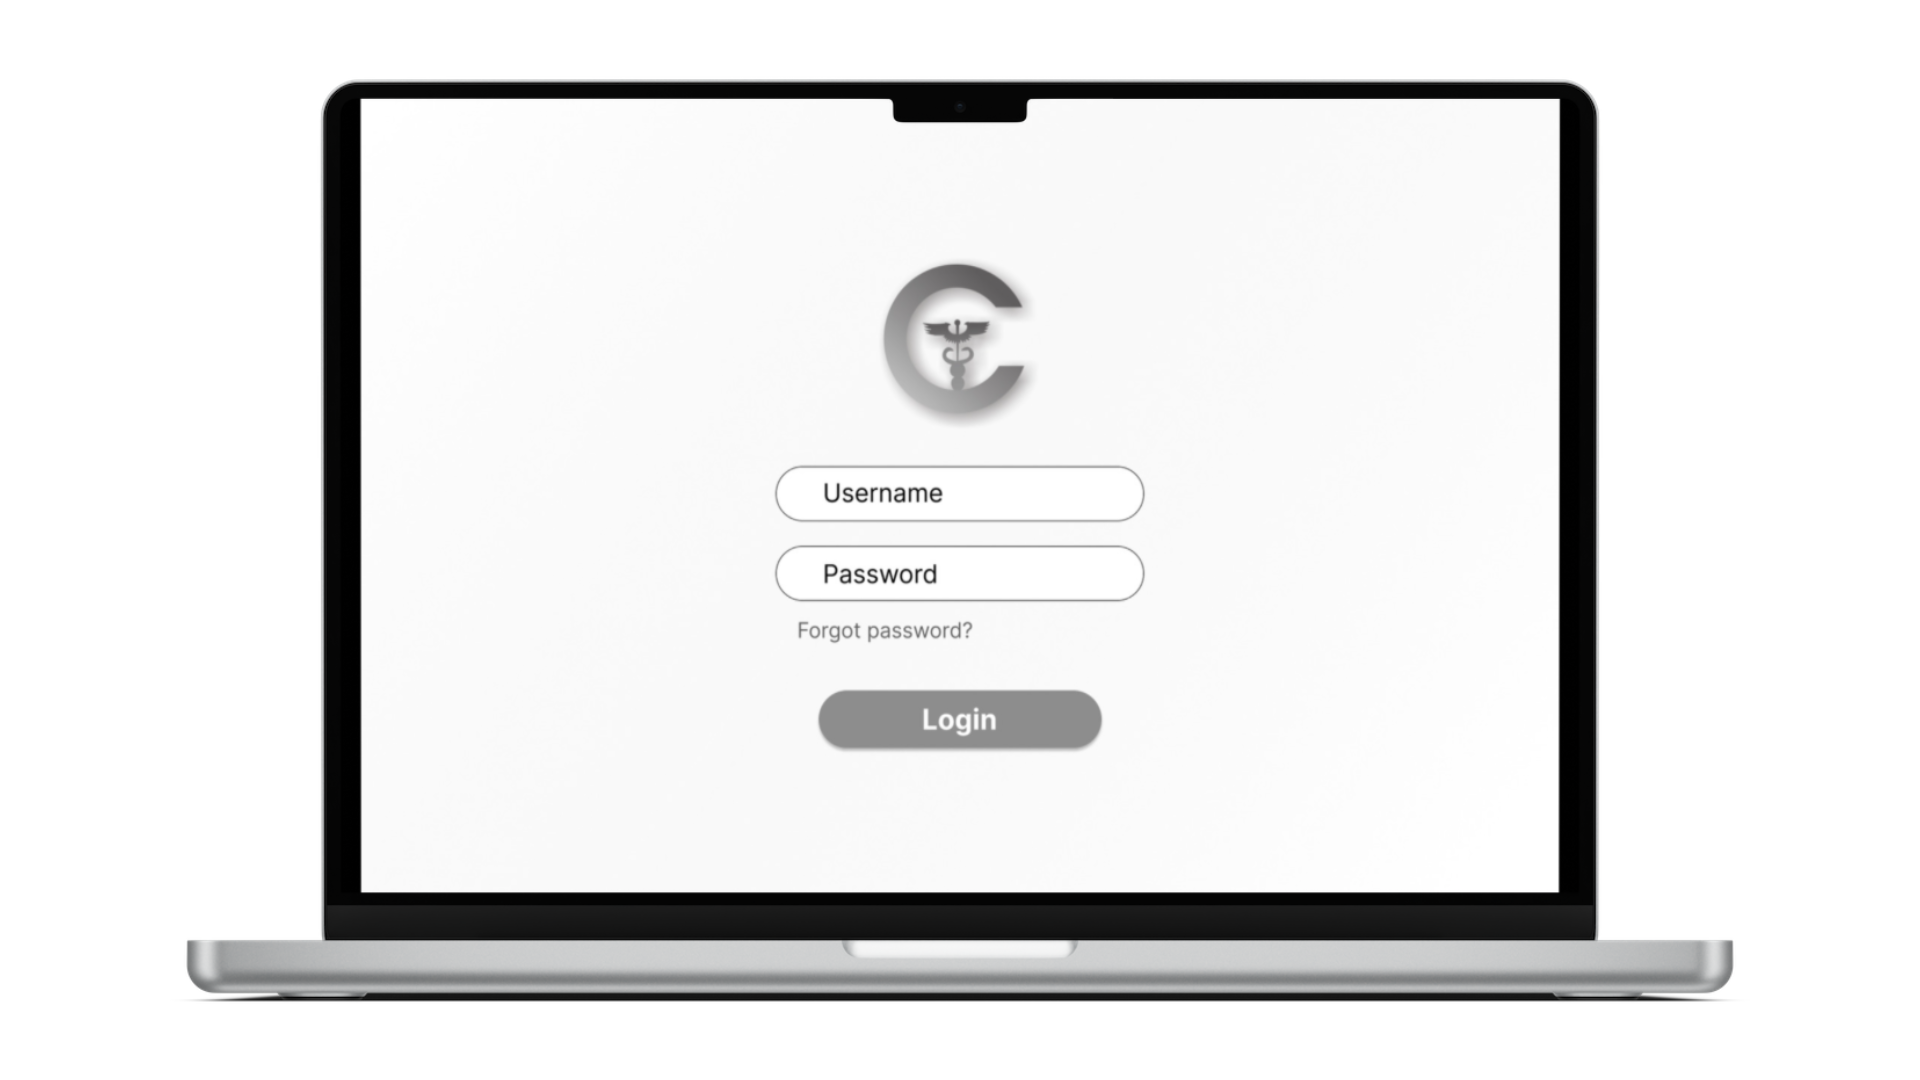
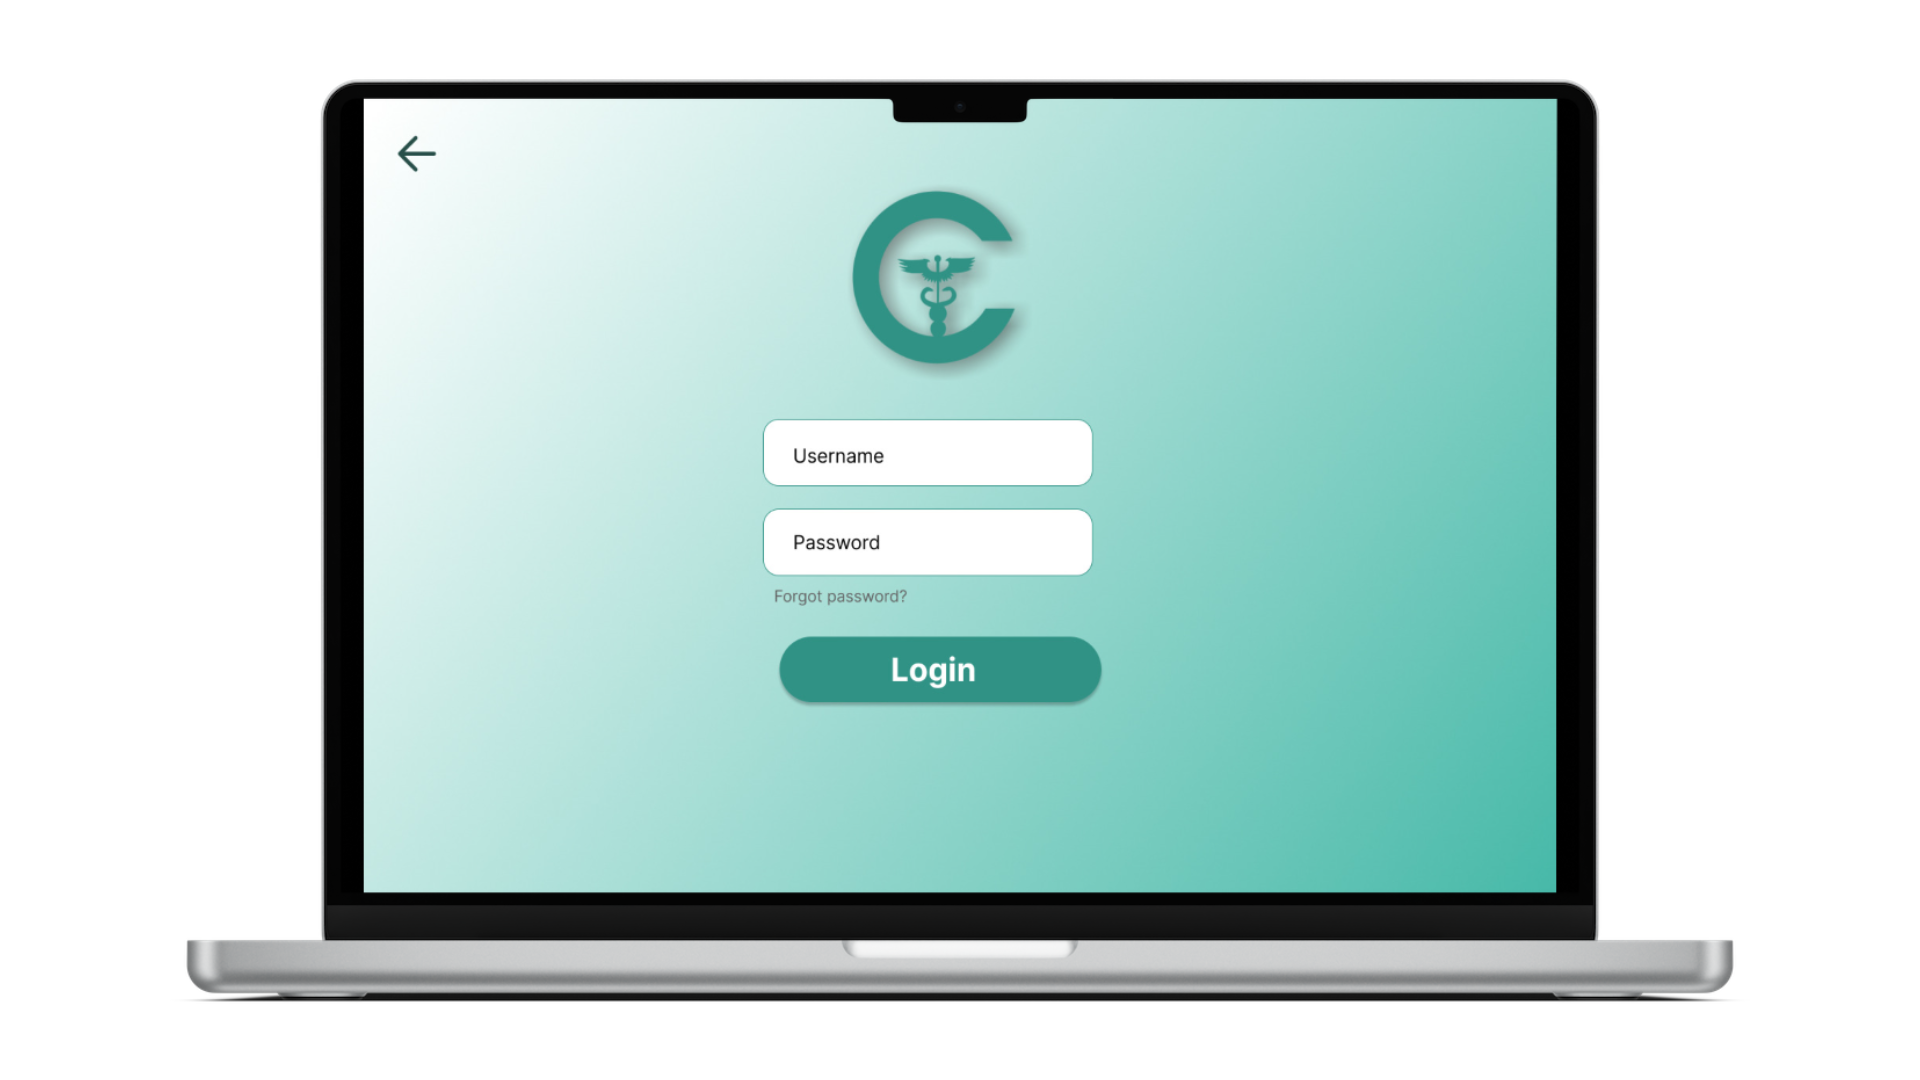
update baru

diff --git a/resources/sass/app.scss b/resources/sass/app.scss
@@ -13,11 +13,16 @@
 .button-container {
     display: flex;
     flex-wrap: wrap;
-    gap: 10px; /* Jarak antara tombol */
+    gap: 10px;
+    /* Jarak antara tombol */
 }
 
 .button-container form {
-    margin: 0; /* Menghapus margin default pada form */
+    margin: 0;
+    /* Menghapus margin default pada form */
 }
 
 
+#wlcm {
+    background-color: #45B8A7;
+}

diff --git a/resources/views/layoutsadmin/nav.blade.php b/resources/views/layoutsadmin/nav.blade.php
@@ -3,17 +3,18 @@
 @endphp
 
 
-<nav class="navbar navbar-expand-md navbar-dark" style="background-color: #767676">
+<nav class="navbar navbar-expand-md navbar-dark" style="background-color: #8BD2C8">
 
     <div class="container">
-        <a href=" {{ route('listobat') }} " class="navbar-brand mb-0 h1"> <img src="{{ Vite::asset('resources/images/logonobg.png') }}" width="75" height="40"></a>
+        <a href=" {{ route('listobat') }} " class="navbar-brand mb-0 h1"> <img
+                src="{{ Vite::asset('resources/images/logonobg.png') }}" width="75" height="40"></a>
 
         <button type="button" class="navbar-toggler" data-bs-toggle="collapse" data-bs-target="#navbarSupportedContent">
             <span class="navbar-toggler-icon"></span>
         </button>
 
         <div class="collapse navbar-collapse" id="navbarSupportedContent">
-            <hr class="d-md-none text-white-50">
+            <hr class="d-md-none text-dark">
 
             <ul class="navbar-nav flex-row flex-wrap">
                 <li class="nav-item col-2 col-md-auto"><a href="{{ route('listobat') }}"
@@ -28,7 +29,7 @@
                         class="nav-link @if ($currentRouteName == 'resi.index') active @endif">Resi Pemasok</a></li>
             </ul>
 
-            <hr class="d-md-none text-white-50">
+            <hr class="d-md-none text-dark">
 
             <li class="nav-item dropdown btn btn-outline-light my-2 ms-md-auto">
                 <a id="navbarDropdown" class="nav-link dropdown-toggle" href="#" role="button"

diff --git a/resources/views/welcome.blade.php b/resources/views/welcome.blade.php
@@ -14,7 +14,7 @@
     <nav class="navbar bg-body-tertiary">
         <div class="container">
             <a class="navbar-brand" href="#">
-                <img href="#" class="fw-bold"><img src="{{ Vite::asset('resources/images/logo.png') }}"
+                <img href="#" class="fw-bold"><img src="{{ Vite::asset('resources/images/logonobg.png') }}"
                     alt="image" width=100px>
             </a>
             <a class="nav-link active fs-3 fw-bold" aria-current="page" href="{{ route('login') }}"><i
@@ -36,7 +36,7 @@
             </div>
         </div>
     </section>
-    <section class="p-5 "style="background-color: black">
+    <section class="p-5" id="wlcm">
         <div class="container text-center">
             <div class="row text-center g-4">
                 <div class="col-md">

diff --git a/resources/views/admin/laporanmasuk/index.blade.php b/resources/views/admin/laporanmasuk/index.blade.php
@@ -19,9 +19,9 @@
                         </a> --}}
                     </li>
                     <li class="list-inline-item">
-                        {{-- <a href="{{ route('laporanmasuk.export_excel') }}" class="btn btn-outline-danger">
+                        <a href="{{ route('laporanmasuk.export_excel') }}" class="btn btn-outline-danger">
                             <i class="bi bi-download me-1"></i> to Excel
-                        </a> --}}
+                        </a>
                     </li>
                     <li class="list-inline-item">
                         {{-- <a href="{{ route('admin.create') }}" class="btn btn-primary">

diff --git a/resources/views/admin/laporankeluar/index.blade.php b/resources/views/admin/laporankeluar/index.blade.php
@@ -14,9 +14,9 @@
                         </a> --}}
                     </li>
                     <li class="list-inline-item">
-                        {{-- <a href="{{ route('laporankeluar.export_pdf') }}" class="btn btn-outline-danger">
+                        <a href="{{ route('laporankeluar.export_pdf') }}" class="btn btn-outline-danger">
                             <i class="bi bi-download me-1"></i> to PDF
-                        </a> --}}
+                        </a>
                     </li>
                     <li class="list-inline-item"></li>
                     <li class="list-inline-item">

diff --git a/app/Http/Controllers/ReportoutController.php b/app/Http/Controllers/ReportoutController.php
@@ -4,6 +4,7 @@ namespace App\Http\Controllers;
 
 use App\Models\outreports;
 use Illuminate\Http\Request;
+use Maatwebsite\Excel\Facades\Excel;
 
 class ReportoutController extends Controller
 {
@@ -67,5 +68,9 @@ class ReportoutController extends Controller
     public function destroy(string $id)
     {
         //
+    }
+    public function exportExcel()
+    {
+        return Excel::download(new outreportsExport, 'outreports.xlsx');
     }
 }
